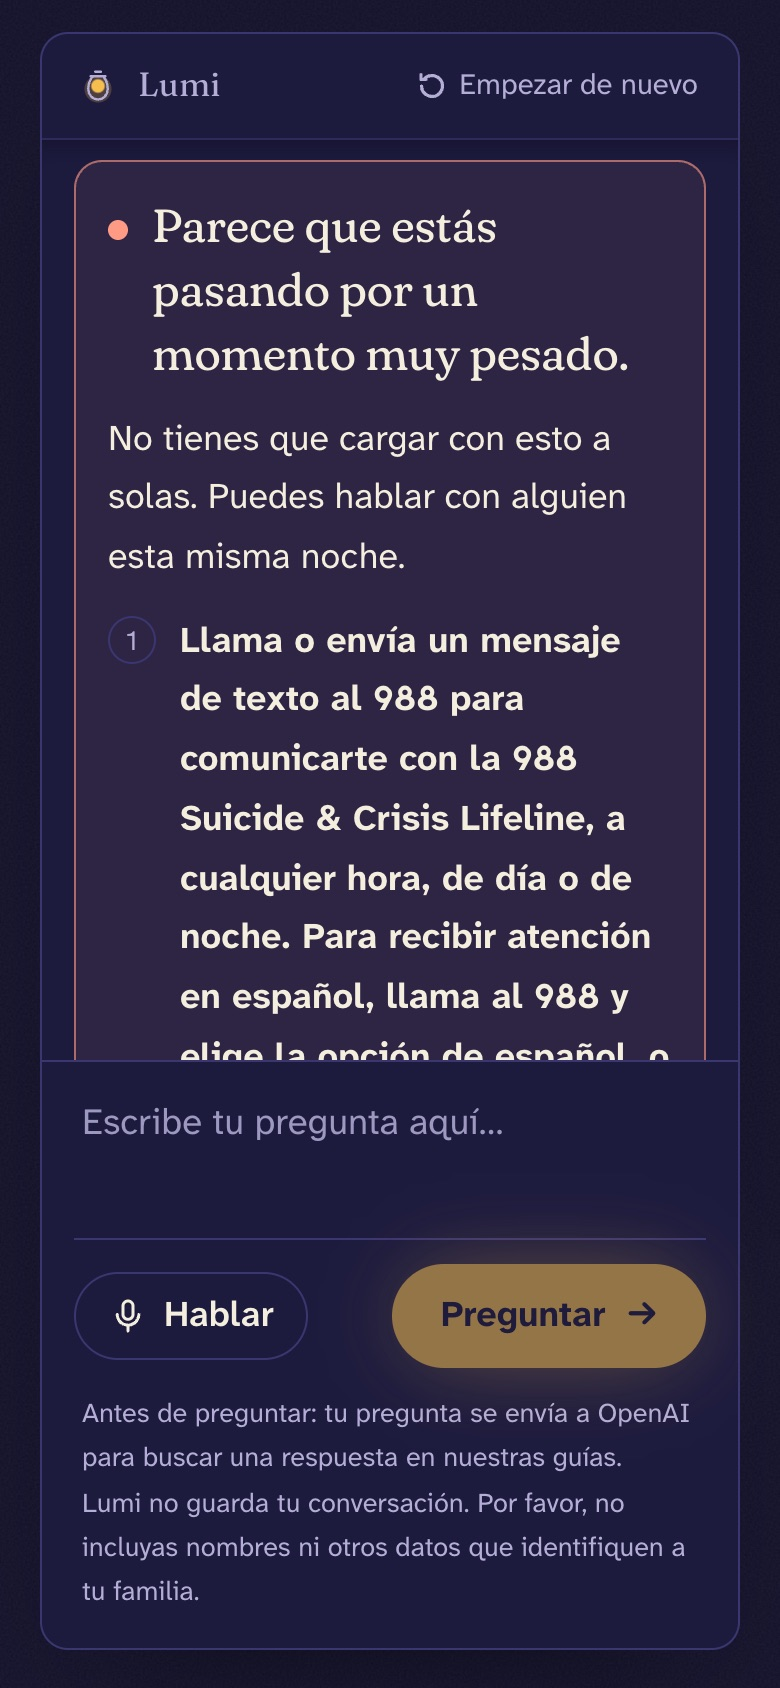
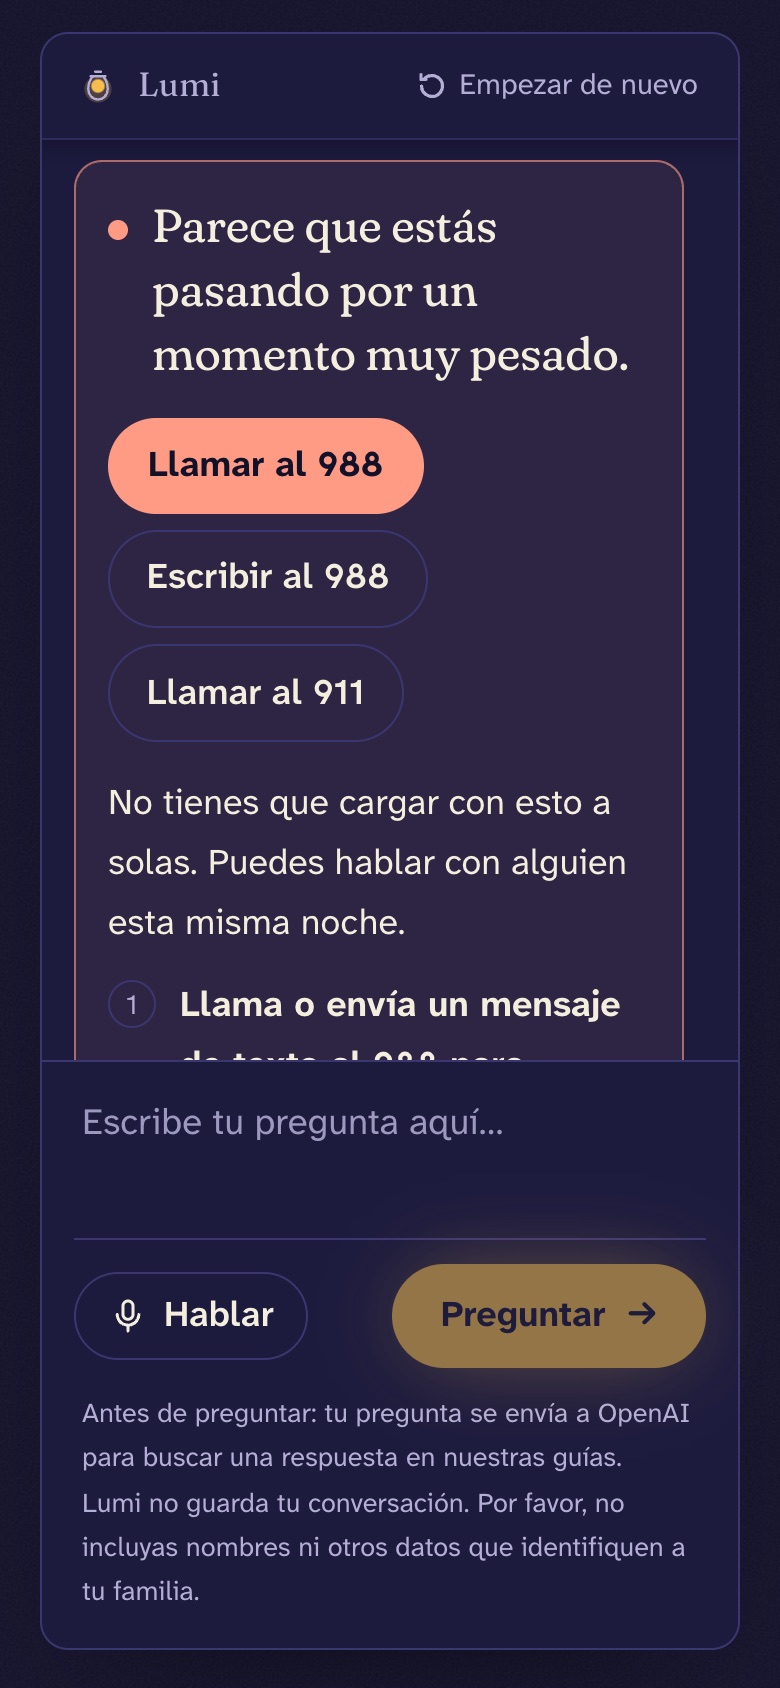
docs: Phase 3 fixes round 2 (ADR 0016 revision 2, PROCESS), reshoot affected stills

diff --git a/docs/PROCESS.md b/docs/PROCESS.md
@@ -494,3 +494,16 @@ What the check caught along the way:
 **Round 3: themed scrollbar.** The conversation area showed the browser default scrollbar (a wide grey track). A reusable `scrollbar-lumi` utility in `globals.css` makes it thin with a transparent track and a muted thumb from the tokens (45%, 70% on hover or keyboard focus), in both themes, with a `::-webkit-scrollbar` fallback for Safari and `scrollbar-gutter: stable`. It stays visible as a cue that there is more above. Checked in Chromium at 1280 and 390, night and dawn, with headless scrollbar hiding turned off so the bar actually renders: no console errors, and no overflow with overlay scrollbars. WebKit and Firefox only use overlay scrollbars headless, so the Safari fallback was not seen rendered. Gates green (646 + 156 tests).
 
 **Round 4 (merge + citations).** First, `main` (Phase 3 fixes round 1) was merged into `ui-feedback-1`. The conflict in `ask-lumi.tsx` kept the one-column card with its scroll area and moved main's composer focus ring onto the card (`has-[>form_textarea:focus]`, so the gap-flow textarea doesn't trigger it). PROCESS kept both entries. The Ask Lumi still stayed this branch's version, and the landing still came from main. Gates after the merge: 40 files, 672 tests; 156 KB tests. Then Felipe asked for less citation noise: "having the 7 on every line is too much". One pill per guide per answer (keep each handle's last pill) was specified and half-built, then he decided to drop inline pills entirely. `stripCitations` removes every marker from the rendered answer and trims the space it leaves. The parser still reads cite nodes, and the server still requires and validates citations. The "From these guides" list is unchanged and is now the only place sources appear. Main's `collapseRepeatedCitations` and its tests, the citation-link rendering in the Markdown component and `help.citationLabel` (EN + ES) were removed as dead code. New tests cover a single marker, a grouped marker, punctuation, a bullet that ends or starts with a marker, markers inside bold, italic and headings, and the no-op case. Browser check on a production build: EN/ES × 390/1280 with a single-source answer and a multi-source one (heading, a group, a marker inside bold and at the start of a bullet). No pills or brackets, no stray spaces, the Sources list intact, the composer focus ring on the card, no overflow, a clean console (37/37). The round-2 card checks were re-run on the merged build (internal scroll, newest turn in view, an emergency as the 5th turn with "Call 911" visible): 106/106.
+
+## Phase 3 fixes round 2 (Codex final verification)
+
+The last allowed Phase 3 round: one safety blocker and three cheap polish items, fixes only. The work was done on `main` after `ui-feedback-1` was fast-forwarded into it. Decisions are in [ADR 0016 § Revision 2](decisions/0016-phase-3-ui.md#revision-2-phase-3-fixes-round-2-codex-final-verification). No server changes.
+
+| Finding | Status | What changed |
+|---|---|---|
+| B6 Safety responses hid their call buttons on phones | Fixed | Urgent (ember) safety cards put the call buttons right under the heading. The copy and button order are unchanged. The notebook notices use the same order. |
+| Citation strip glued words ("Askthe social worker") | Fixed | One space is kept between words or formatted runs, and collapsed only before punctuation or at the edges. Regression tests added. |
+| Sources list numbers matched nothing | Fixed | Plain linked titles with a sage dot, `role="list"`. |
+| Strip links were 40 px on phones | Fixed | 44 px, and the Spanish strip still fits two rows at 390 px. |
+
+**Browser check** (production build, `/api/chat` mocked): B6 for self-harm, emergency and crisis × EN/ES × 390/1280 × first or 5th turn × normal or reduced motion (48 cases). In every case the heading and the first button sit fully inside the scroll area, the buttons come right under the heading, the order is right with the first button filled, and the console is clean. The polish items were checked in EN/ES at 390/1280: strip links at 44 px in at most two rows with no overlap with "More", answer spacing, a Sources list with titles only, list role and links, no overflow. The notebook notice order was checked at both sizes. 214 checks plus 2 notebook checks, 0 failures. The round-2 core chat checks were re-run (scroll area, newest turn in view, Start over, no overflow, clean console): 106/106. Stills reshot: `ask-emergency-mobile`, `ask-crisis-mobile-es`, `ask-answer-desktop`, plus `landing-mobile-es` and `volunteer-mobile`, where the strip is now taller.

diff --git a/docs/decisions/0016-phase-3-ui.md b/docs/decisions/0016-phase-3-ui.md
@@ -98,6 +98,14 @@ The brief asks for one slice done deeply and reasonable placeholders for the res
 - Notes typed with stray trailing spaces or blank lines print that way. That's the cost of "the parent's own words, exactly".
 - The by-date page shows server notices by kind, without pointing at a note, when only the server matched. This can only happen if the server and client rules diverge, which they can't with a shared module.
 
+## Revision 2: Phase 3 fixes round 2 (Codex final verification)
+
+**Urgent actions first (B6, safety visibility).** On a phone, the self-harm and crisis cards (about 800 px) start at the top of the chat's scroll area (about 460 px), and their 988/911 buttons sat 640–760 px down, so they needed manual scrolling. In `SafetyCard`, urgent (ember) cards (emergency, self-harm, crisis) now render their call buttons **directly under the heading**, before the body and the numbered steps. The reviewed copy and the button order are unchanged: "Call 911" filled and most prominent for an emergency; 988, Text 988, then 911 for self-harm and crisis. Calm cards (medical, off-topic, abstained, fallback) keep their actions at the end. The notebook's safety notices use the same order (the call button under the title). Checked: the heading and the first button are fully inside the scroll area right after the response arrives, for all three kinds, in EN and ES at 390 × 844 and 1280, as the first or the 5th turn, with and without reduced motion.
+
+**Sources list without numbers.** With no inline markers in answers, the circled citation numbers in "From these guides" matched nothing. The list now shows plain linked guide titles in order, with a small decorative sage dot. `role="list"` keeps list semantics in Safari, which drops them for unstyled lists.
+
+**Smaller fixes.** `stripCitations` keeps exactly one space where a marker sat between two words or formatted runs ("Ask [2]**the social worker**" used to render as "Askthe social worker"). It collapses only before punctuation or at the start or end of a line, item or run. The emergency strip's 911/988 links are now 44 px tap targets on phones, and the Spanish strip still fits two rows at 390 px.
+
 ## Consequences
 - The deep slice is complete end to end, and every failure ends in calm, fixed copy with 911.
 - The rest of the site feels real but never pretends: badges, dashed borders and "nothing is sent" lines.
